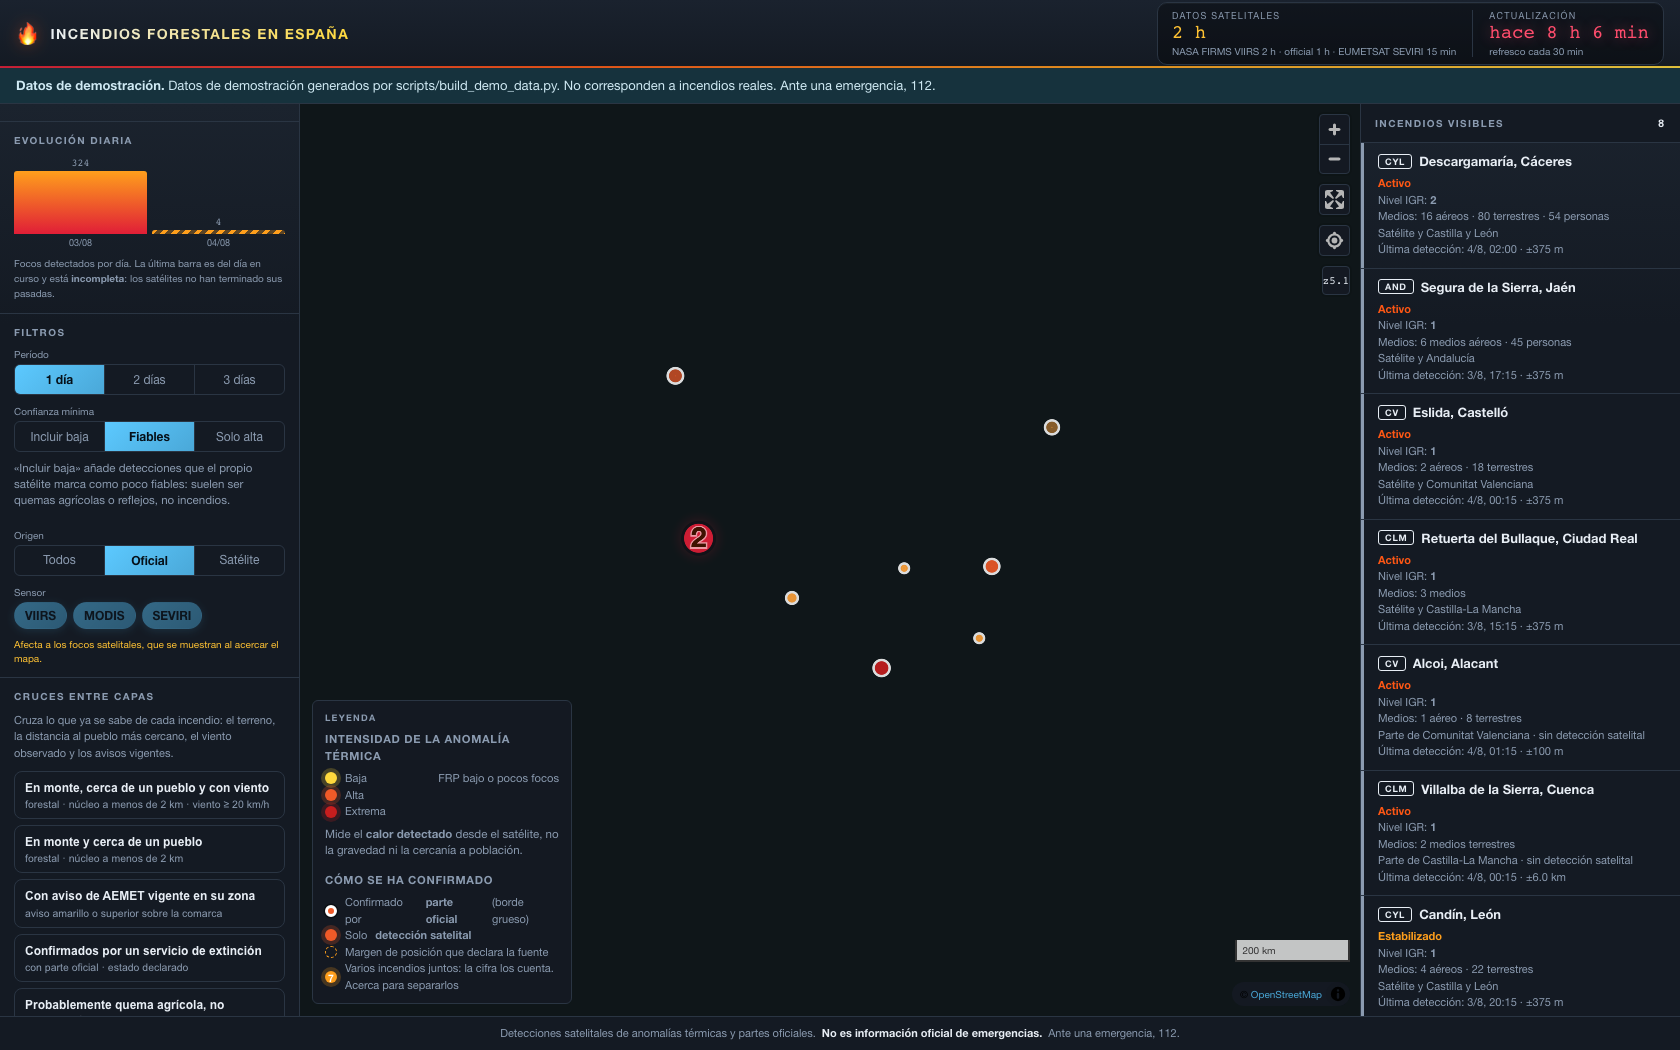
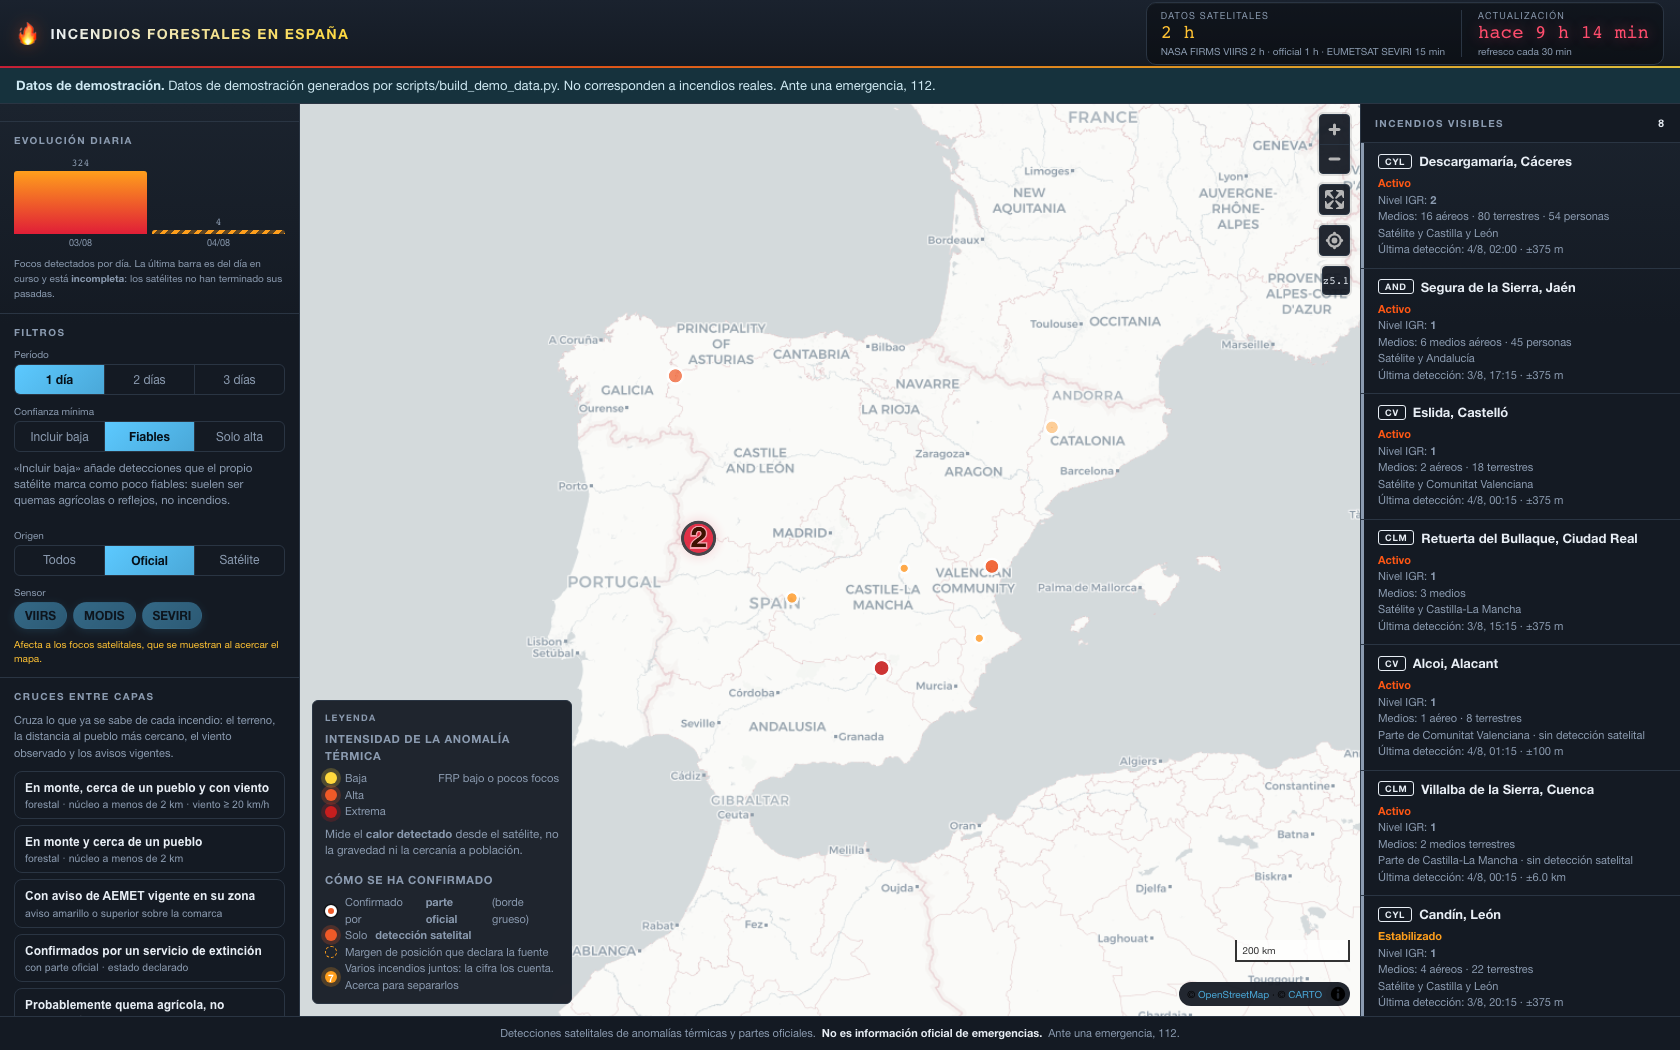
feat: mapa sobrio por defecto y la infraestructura deja de competir con el fuego
El problema no era estetico. Sobre OSM estandar, el naranja significaba tres
cosas a la vez: carretera principal (lo pinta OSM), linea de alta tension (lo
pintabamos nosotros) e intensidad termica alta. Con las capas de infraestructura
activas no se distinguia una linea de 400 kV de una autovia. Comprobado sobre
produccion el 04-08-2026.

Dos estilos nuevos desde CARTO, sin clave: Sobrio -ahora el defecto- y Oscuro.
Normal se conserva porque carreteras y naturaleza son contexto util; solo deja
de ser lo primero que se ve.

Colores: electricas en azul, ferrocarril en pizarra oscuro discontinuo. El azul
es la mayor distancia semantica del fuego, asi lo frio se lee como "esto no
arde, es contexto", y el naranja vuelve a significar solo una cosa. El morado se
descarto: ya es el de calidad del aire "muy mala".

Calibrado tras verlo: la primera version leia bien pero la red tapaba los
incendios, que son el sujeto. Menos opacidad, menos grosor, y el umbral del
resto de la red sube de z7,5 a z8,5.

esClaveEstilo pasa a derivarse del registro. Enumeraba las claves a mano y un
estilo nuevo se quedaba fuera en silencio, descartando la preferencia guardada.

diff --git a/web/src/map/capas.ts b/web/src/map/capas.ts
@@ -777,6 +777,12 @@ export const CAPA_FERROCARRIL = 'ferrocarril-linea';
  * que llenarían el mapa de ruido sin añadir información.
  *
  * Va **por debajo** de los incendios porque es contexto, no el dato principal.
+ *
+ * **En azul, y no en naranja como estaba.** El naranja ya significaba dos cosas
+ * —intensidad térmica alta y carretera principal de OSM— y añadirle una tercera
+ * hacía que una línea de alta tensión y una autovía fueran indistinguibles.
+ * Medido el 04-08-2026 sobre producción. El azul es la mayor distancia
+ * semántica posible del fuego: lo frío se lee como «esto no arde, es contexto».
  */
 export function anadirCapaElectricas(mapa: MapaGL): void {
   // Dos capas y no una con `['zoom']` dentro de `filter`: ese filtro se evalúa
@@ -791,24 +797,25 @@ export function anadirCapaElectricas(mapa: MapaGL): void {
       filter: ['>=', ['get', 'kv'], 400],
       layout: { 'line-cap': 'round', 'line-join': 'round' },
       paint: {
-        'line-width': ['interpolate', ['linear'], ['zoom'], 6, 1.4, 12, 3.2],
-        'line-color': '#e8a33d',
+        'line-width': ['interpolate', ['linear'], ['zoom'], 6, 1.1, 12, 2.6],
+        'line-color': '#1668c9',
         // Más tenue de lejos: la red es contexto y no debe competir con los
         // círculos de incendio.
-        'line-opacity': ['interpolate', ['linear'], ['zoom'], 5, 0.5, 9, 0.85],
+        'line-opacity': ['interpolate', ['linear'], ['zoom'], 5, 0.4, 9, 0.65],
       },
     },
     CAPA_INCERTIDUMBRE,
   );
 
-  // El resto solo al acercarse: con las 8.584 líneas a la vez, a escala
-  // nacional la red tapa los incendios, que son el dato principal.
+  // El resto solo al acercarse. El umbral subió de 7,5 a 8,5 tras verlo: a z8
+  // aparecían las 8.584 líneas de golpe y los incendios quedaban como puntitos
+  // entre una maraña azul. La infraestructura es el fondo, no el sujeto.
   mapa.addLayer(
     {
       id: CAPA_ELECTRICAS_RESTO,
       type: 'line',
       source: FUENTE_ELECTRICAS,
-      minzoom: 7.5,
+      minzoom: 8.5,
       filter: ['<', ['get', 'kv'], 400],
       layout: { 'line-cap': 'round', 'line-join': 'round' },
       paint: {
@@ -820,8 +827,8 @@ export function anadirCapaElectricas(mapa: MapaGL): void {
           6, ['case', ['>=', ['get', 'kv'], 220], 1, 0.6],
           12, ['case', ['>=', ['get', 'kv'], 220], 2.2, 1.4],
         ],
-        'line-color': ['case', ['>=', ['get', 'kv'], 220], '#d98b2b', '#a8701f'],
-        'line-opacity': 0.7,
+        'line-color': ['case', ['>=', ['get', 'kv'], 220], '#3d8fdb', '#7aaed6'],
+        'line-opacity': 0.55,
       },
     },
     CAPA_INCERTIDUMBRE,
@@ -838,8 +845,13 @@ export function anadirCapaFerrocarril(mapa: MapaGL): void {
       layout: { 'line-cap': 'round', 'line-join': 'round' },
       paint: {
         'line-width': ['interpolate', ['linear'], ['zoom'], 6, 0.6, 12, 2],
-        'line-color': '#9aa7b8',
-        'line-opacity': 0.7,
+        // Pizarra oscuro y no el gris claro anterior: sobre el mapa sobrio, que
+        // es gris, un gris claro desaparecía. El oscuro discontinuo es además
+        // como se dibuja una vía en cualquier mapa desde hace un siglo, así que
+        // no hay que explicarlo. Neutro a propósito: ni compite con el naranja
+        // del fuego ni con el azul de la red eléctrica.
+        'line-color': '#3d4756',
+        'line-opacity': 0.6,
         // Discontinua: es como se dibuja una vía en cualquier mapa y evita
         // confundirla con una línea eléctrica a poco zoom.
         'line-dasharray': [3, 2],

diff --git a/web/src/map/estilos.ts b/web/src/map/estilos.ts
@@ -12,12 +12,25 @@
 
 import type { StyleSpecification } from 'maplibre-gl';
 
-export type ClaveEstilo = 'normal' | 'satelite' | 'relieve';
+export type ClaveEstilo = 'sobrio' | 'normal' | 'satelite' | 'relieve' | 'oscuro';
 
-export const ESTILO_POR_DEFECTO: ClaveEstilo = 'normal';
+/**
+ * El sobrio es el defecto, y el motivo es de lectura, no de gusto.
+ *
+ * OSM estándar pinta las carreteras principales en naranja y rojo — los mismos
+ * tonos que nuestra rampa de fuego y que las líneas de alta tensión. Sobre él,
+ * un incendio y una autovía se parecen. Medido el 04-08-2026 con las capas de
+ * infraestructura activas: no se distinguían.
+ *
+ * Un fondo gris deja el color para el dato. Es lo que hacen los visores
+ * meteorológicos y los paneles operativos, y por la misma razón.
+ */
+export const ESTILO_POR_DEFECTO: ClaveEstilo = 'sobrio';
 
 const ATRIBUCION_OSM =
   '© <a href="https://www.openstreetmap.org/copyright">OpenStreetMap</a>';
+
+const ATRIBUCION_CARTO = `${ATRIBUCION_OSM} · © <a href="https://carto.com/attributions">CARTO</a>`;
 
 function estiloRaster(
   teselas: string[],
@@ -43,6 +56,14 @@ function estiloRaster(
 }
 
 export const ESTILOS: Record<ClaveEstilo, { nombre: string; estilo: StyleSpecification }> = {
+  sobrio: {
+    nombre: 'Sobrio',
+    estilo: estiloRaster(
+      ['https://a.basemaps.cartocdn.com/light_all/{z}/{x}/{y}.png'],
+      ATRIBUCION_CARTO,
+      20,
+    ),
+  },
   normal: {
     nombre: 'Normal',
     estilo: estiloRaster(
@@ -68,8 +89,21 @@ export const ESTILOS: Record<ClaveEstilo, { nombre: string; estilo: StyleSpecifi
       17,
     ),
   },
+  oscuro: {
+    nombre: 'Oscuro',
+    estilo: estiloRaster(
+      ['https://a.basemaps.cartocdn.com/dark_all/{z}/{x}/{y}.png'],
+      ATRIBUCION_CARTO,
+      20,
+    ),
+  },
 };
 
+const CLAVES = Object.keys(ESTILOS) as ClaveEstilo[];
+
 export function esClaveEstilo(valor: string | null): valor is ClaveEstilo {
-  return valor === 'normal' || valor === 'satelite' || valor === 'relieve';
+  // Se deriva del propio registro: la versión anterior enumeraba las claves a
+  // mano y un estilo nuevo se quedaba fuera en silencio, de modo que la
+  // preferencia guardada del usuario se descartaba sin avisar.
+  return valor !== null && (CLAVES as string[]).includes(valor);
 }

diff --git a/web/tests/e2e/infraestructura.spec.ts b/web/tests/e2e/infraestructura.spec.ts
@@ -71,7 +71,7 @@ test('a escala nacional solo se ve la red troncal', async ({ page }) => {
     )
     .toBeGreaterThan(0);
 
-  // El resto de la red tiene minzoom 7.5: a escala nacional (z5.1) no puede
+  // El resto de la red tiene minzoom 8.5: a escala nacional (z5.1) no puede
   // haber nada pintado, o la red taparía los incendios.
   const resto = await page.evaluate(() => {
     const m = (window as never as { __mapa?: maplibregl.Map }).__mapa!;
@@ -81,4 +81,36 @@ test('a escala nacional solo se ve la red troncal', async ({ page }) => {
   });
   expect(resto, 'la capa de resto debe existir').not.toBe(-1);
   expect(resto, 'a z5 no deben pintarse los 132 kV').toBe(0);
+});
+
+test('el mapa por defecto es el sobrio, para que el dato destaque', async ({ page }) => {
+  await abrir(page);
+
+  // OSM estándar pinta las carreteras en naranja y rojo, los mismos tonos que
+  // la rampa de fuego: sobre él, un incendio y una autovía se confunden. El
+  // defecto tiene que ser un fondo que se aparte.
+  const teselas = await page.evaluate(() => {
+    const m = (window as never as { __mapa?: maplibregl.Map }).__mapa;
+    const f = m?.getStyle().sources.base as { tiles?: string[] } | undefined;
+    return f?.tiles?.[0] ?? '';
+  });
+
+  expect(teselas).toContain('cartocdn');
+  expect(teselas, 'no debe arrancar con OSM estándar').not.toContain('tile.openstreetmap.org');
+});
+
+test('la infraestructura no compite en color con el fuego', async ({ page }) => {
+  await abrir(page);
+  await page.click('[data-capa="electricas"]');
+
+  await expect
+    .poll(async () =>
+      page.evaluate(() => {
+        const m = (window as never as { __mapa?: maplibregl.Map }).__mapa;
+        return m?.getLayer('electricas-troncal')
+          ? String(m.getPaintProperty('electricas-troncal', 'line-color'))
+          : '';
+      }),
+    { timeout: 25000 })
+    .toBe('#1668c9');
 });

diff --git a/web/src/main.ts b/web/src/main.ts
@@ -960,8 +960,8 @@ function pintarLeyenda(): void {
            ${
              estado.capas.electricas
                ? `<div class="leyenda__fila">
-                    <span class="leyenda__muestra leyenda__muestra--linea" style="--c:#e8a33d"></span>
-                    Naranjas <span class="leyenda__nota">líneas de alta tensión · a más grosor, más kV</span>
+                    <span class="leyenda__muestra leyenda__muestra--linea" style="--c:#1668c9"></span>
+                    Azules <span class="leyenda__nota">líneas de alta tensión · a más grosor y más intenso, más kV</span>
                   </div>`
                : ''
            }
@@ -969,7 +969,7 @@ function pintarLeyenda(): void {
              estado.capas.ferrocarril
                ? `<div class="leyenda__fila">
                     <span class="leyenda__muestra leyenda__muestra--via"></span>
-                    Discontinua gris <span class="leyenda__nota">ferrocarril</span>
+                    Discontinua oscura <span class="leyenda__nota">ferrocarril</span>
                   </div>`
                : ''
            }

diff --git a/web/tests/e2e/ayuda.ts b/web/tests/e2e/ayuda.ts
@@ -14,10 +14,15 @@ export const VIEWPORTS = [
   { name: 'escritorio', width: 1680, height: 1050 },
 ] as const;
 
+// Un proveedor que falte aquí no da error: la prueba simplemente empieza a
+// tocar la red y se vuelve lenta e irreproducible. Pasó al añadir el mapa
+// sobrio, que es el estilo por defecto y sirve desde CARTO: 22 escenarios
+// fallaron de golpe. Al añadir un estilo nuevo, su dominio va también aquí.
 const TESELAS = [
   '**://tile.openstreetmap.org/**',
   '**://server.arcgisonline.com/**',
   '**://tile.opentopomap.org/**',
+  '**://*.basemaps.cartocdn.com/**',
 ];
 
 export async function bloquearTeselas(page: Page): Promise<void> {

diff --git a/web/src/estilos.css b/web/src/estilos.css
@@ -1243,5 +1243,7 @@ body {
 }
 .leyenda__muestra--linea { width: 18px; height: 3px; background: var(--c); border-radius: 2px; }
 .leyenda__muestra--via {
-  width: 18px; height: 0; border-top: 2px dashed #9aa7b8;
+  /* Igualado al color real de la capa. La leyenda que no coincide con
+     el mapa es peor que no tener leyenda. */
+  width: 18px; height: 0; border-top: 2px dashed #8794a8;
 }
